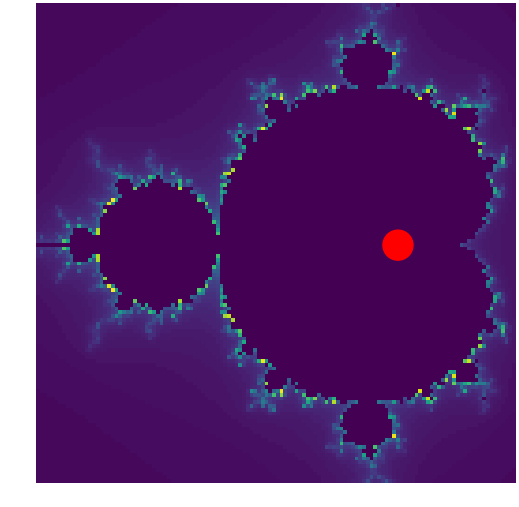
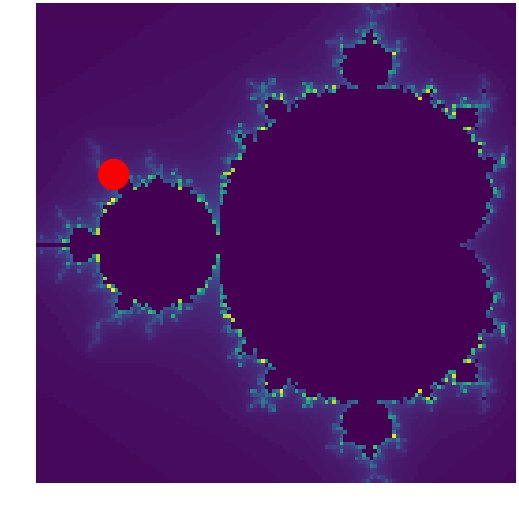
Added rand search. Made try-catch in upload

Changed region(s): [[0.7399, 0.4438, 0.8015, 0.5325], [0.185, 0.2959, 0.2466, 0.3846]]

diff --git a/renderer4.py b/renderer4.py
@@ -142,6 +142,8 @@ def mask_zoom(fractal,maxiter,data,pool=3,subx=8.0,suby=16.0,resx=256,resy=256):
 
 	return fractal_rec
 
+
+
 def smart_zoom(fractal,maxiter,data,pool=3,resx=256,resy=256):
 	subdata=sub(data)
 	dif_list=np.empty(16,dtype=object)
@@ -196,6 +198,39 @@ def array_sort(a):
 
 	return d
 
+
+
+def rand_zoom(fractal, maxiter, data, pool=3, subx=8.0, suby=16.0, resx=256, resy=256):
+	subdata = sub(data, incc=subx, incr=suby)
+	dif_list = []
+
+	nonNullData = []
+
+	for i, data in enumerate(subdata):
+		if np.var(data)>=0.1:
+			nonNullData.append({"data": data, "indexVal": i})
+
+
+
+
+
+	val = nonNullData[random.randint(0,len(nonNullData))]["indexVal"]
+
+	"""Finds x and y"""
+	x = (val) % subx
+	y = (val - x) / subx
+
+	"""print("x: "+str(x)+"; y: "+str(y))"""
+
+	fractal_rec = fractal5.mandelbrot()
+	fractal_rec.x = fractal.x + Decimal((-(subx - 1) + 2.0 * x) / (subx * 2)) * fractal.w
+	fractal_rec.y = fractal.y + Decimal((-(suby - 1) + 2.0 * y) / (suby * 2)) * fractal.h
+	fractal_rec.w = fractal.w / Decimal(4)
+	fractal_rec.h = fractal.h / Decimal(4)
+
+	return fractal_rec
+
+
 if __name__=="__main__":
 
 	print("How many threads to use?")
@@ -221,7 +256,7 @@ if __name__=="__main__":
 		my=a.y
 
 		r=a.render(i*80,resx=w,resy=h,threadCount=i_threads)
-		a=mask_zoom(a,i*80,r,resx=w,resy=h,pool=4)
+		a=rand_zoom(a,i*80,r,resx=w,resy=h,pool=4)
 		r=r.astype(float)
 
 		"""Forhindrer log(0)"""

diff --git a/custom_point.py b/custom_point.py
@@ -1,5 +1,7 @@
 import fractal5
 import renderer4
+import matplotlib.pyplot as plt
+import random
 from decimal import *
 
 a=fractal5.mandelbrot()
@@ -10,14 +12,14 @@ a.w=Decimal(input("w"))
 a.h=Decimal(input("h"))
 i=int(input("Maxiter"))
 
-res_x=int(7680/4)
-res_y=int(4320/4)
+res_x=int(4000)
+res_y=int(4000)
 
-r=a.render(i*80,resx=res_x,resy=res_y,threadCount=4)
+r=a.render(i,resx=res_x,resy=res_y,threadCount=4)
 
 r=r.astype(float)
 
-asort=array_sort(r)
+asort=renderer4.array_sort(r)
 
 
 
@@ -25,8 +27,13 @@ asort=array_sort(r)
 asort=asort.flatten()
 for index, u in enumerate(r.flatten()):
 	if u==0:
-		asort[index]=w*h
+		asort[index]=res_x*res_y
 asort=asort.reshape(r.shape)
 
-plt.imshow(asort)
-plt.show()
+
+maps=["hot","seismic","Spectral","PuOr","gnuplot2","gnuplot","nipy_spectral","gist_ncar","gist_heat","PiYG","PRGn","RdBu","coolwarm","RdYlGn","plasma","inferno","magma","nipy_spectral","jet","gist_earth"]
+
+for map in maps:
+	plt.imsave(map+".jpg",asort,cmap=plt.get_cmap(maps[random.randint(0,len(maps)-1)]))
+
+

diff --git a/upload.py b/upload.py
@@ -10,7 +10,15 @@ url = "http://%s%s" % (host, path)
 
 def upload(x,y,w,h):
 	print("Uploading...")
-	with open('1.jpg','rb') as fp:
-		myfiles={'fileToUpload': fp}
-		r=requests.post(url,files=myfiles,data={'code': 'sec-ret', 'dbx': x, 'dby': y, 'dbw': w, 'dbh': h},verify=True)
+
+	success = False
+	while success is False:
+		try:
+			with open('1.jpg','rb') as fp:
+				myfiles={'fileToUpload': fp}
+				r=requests.post(url,files=myfiles,data={'code': 'sec-ret', 'dbx': x, 'dby': y, 'dbw': w, 'dbh': h},verify=True)
+				success = True
+		except:
+			pass
+
 	print(r.text)
